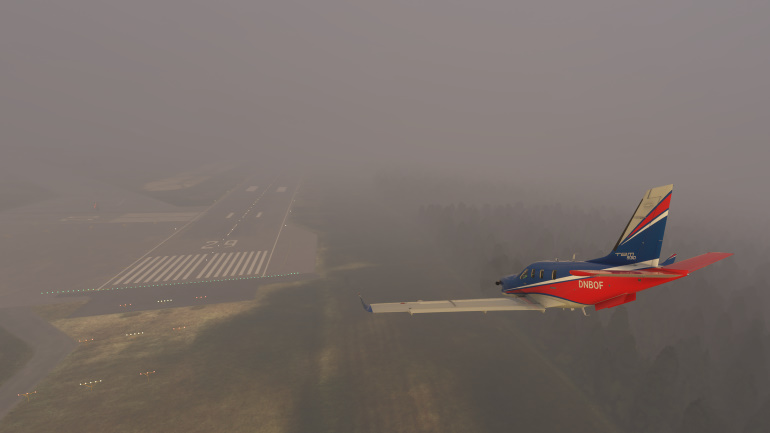
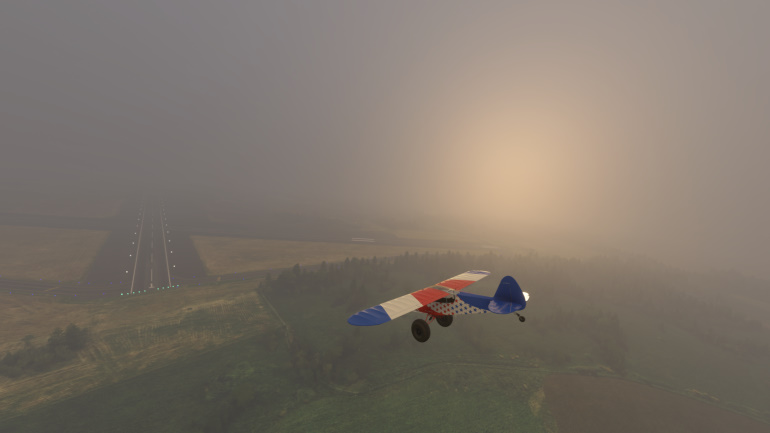
V1.5

diff --git a/README.md b/README.md
@@ -5,7 +5,27 @@ Download the repo as a [ZIP file](https://github.com/DoNotBeOnFire/msfs2020-weat
 
 ---
 
+## Atmospheric
+- Large but scattered clouds with light winds
+- Touch of aerosol density for drama
+- Great for screenshots especially if used around sunrise/sunset
+
+![Atmospheric](images/Atmospheric.jpg)
+
+---
+
+## Breezy
+- More suitable for propeller aircraft
+- Surface = 225/10 knots, gusting 18 knots
+- 10,000 feet = 270/30 knots, no gusts
+- 30,000 feet = 270/50 knots, no gusts
+
+![Breezy](images/Breezy.jpg)
+
+---
+
 ## Windy
+- More suitable for turboprops/airliners
 - Surface = 225/25 knots, gusting 40 knots
 - 10,000 feet = 270/60 knots, no gusts
 - 30,000 feet = 270/80 knots, no gusts
@@ -17,7 +37,7 @@ Download the repo as a [ZIP file](https://github.com/DoNotBeOnFire/msfs2020-weat
 ## Shallow Mist
 - Affects slant/horizontal visibility in the mid to long range
 
-![Shallow Mist](images/Shallow-Mist.jpg)
+![Shallow Mist](images/ShallowMist.jpg)
 
 ---
 
@@ -37,7 +57,6 @@ Download the repo as a [ZIP file](https://github.com/DoNotBeOnFire/msfs2020-weat
 
 ## Snow Showers
 - Large but scattered high precipitation snow showers with light winds
-- Created to support [Expedition Alaska 2021](https://discord.gg/4f3j4YgNm4)
 
 ![Snow Showers](images/SnowShowers.jpg)
 
@@ -45,7 +64,6 @@ Download the repo as a [ZIP file](https://github.com/DoNotBeOnFire/msfs2020-weat
 
 ## Lying Snow
 - Lying snow on the ground, no wind and some high altitude cloud
-- Created to support [Expedition Alaska 2021](https://discord.gg/4f3j4YgNm4)
 
 ![Snow Showers](images/LyingSnow.jpg)
 
@@ -54,7 +72,6 @@ Download the repo as a [ZIP file](https://github.com/DoNotBeOnFire/msfs2020-weat
 ## De-icing (Utility preset)
 - Large but scattered clouds with light winds
 - High air temperature as a de-icing utility, engine performance may be affected
-- Created to support [Expedition Alaska 2021](https://discord.gg/4f3j4YgNm4)
 
 ![De-icing](images/Deicing.jpg)
 
